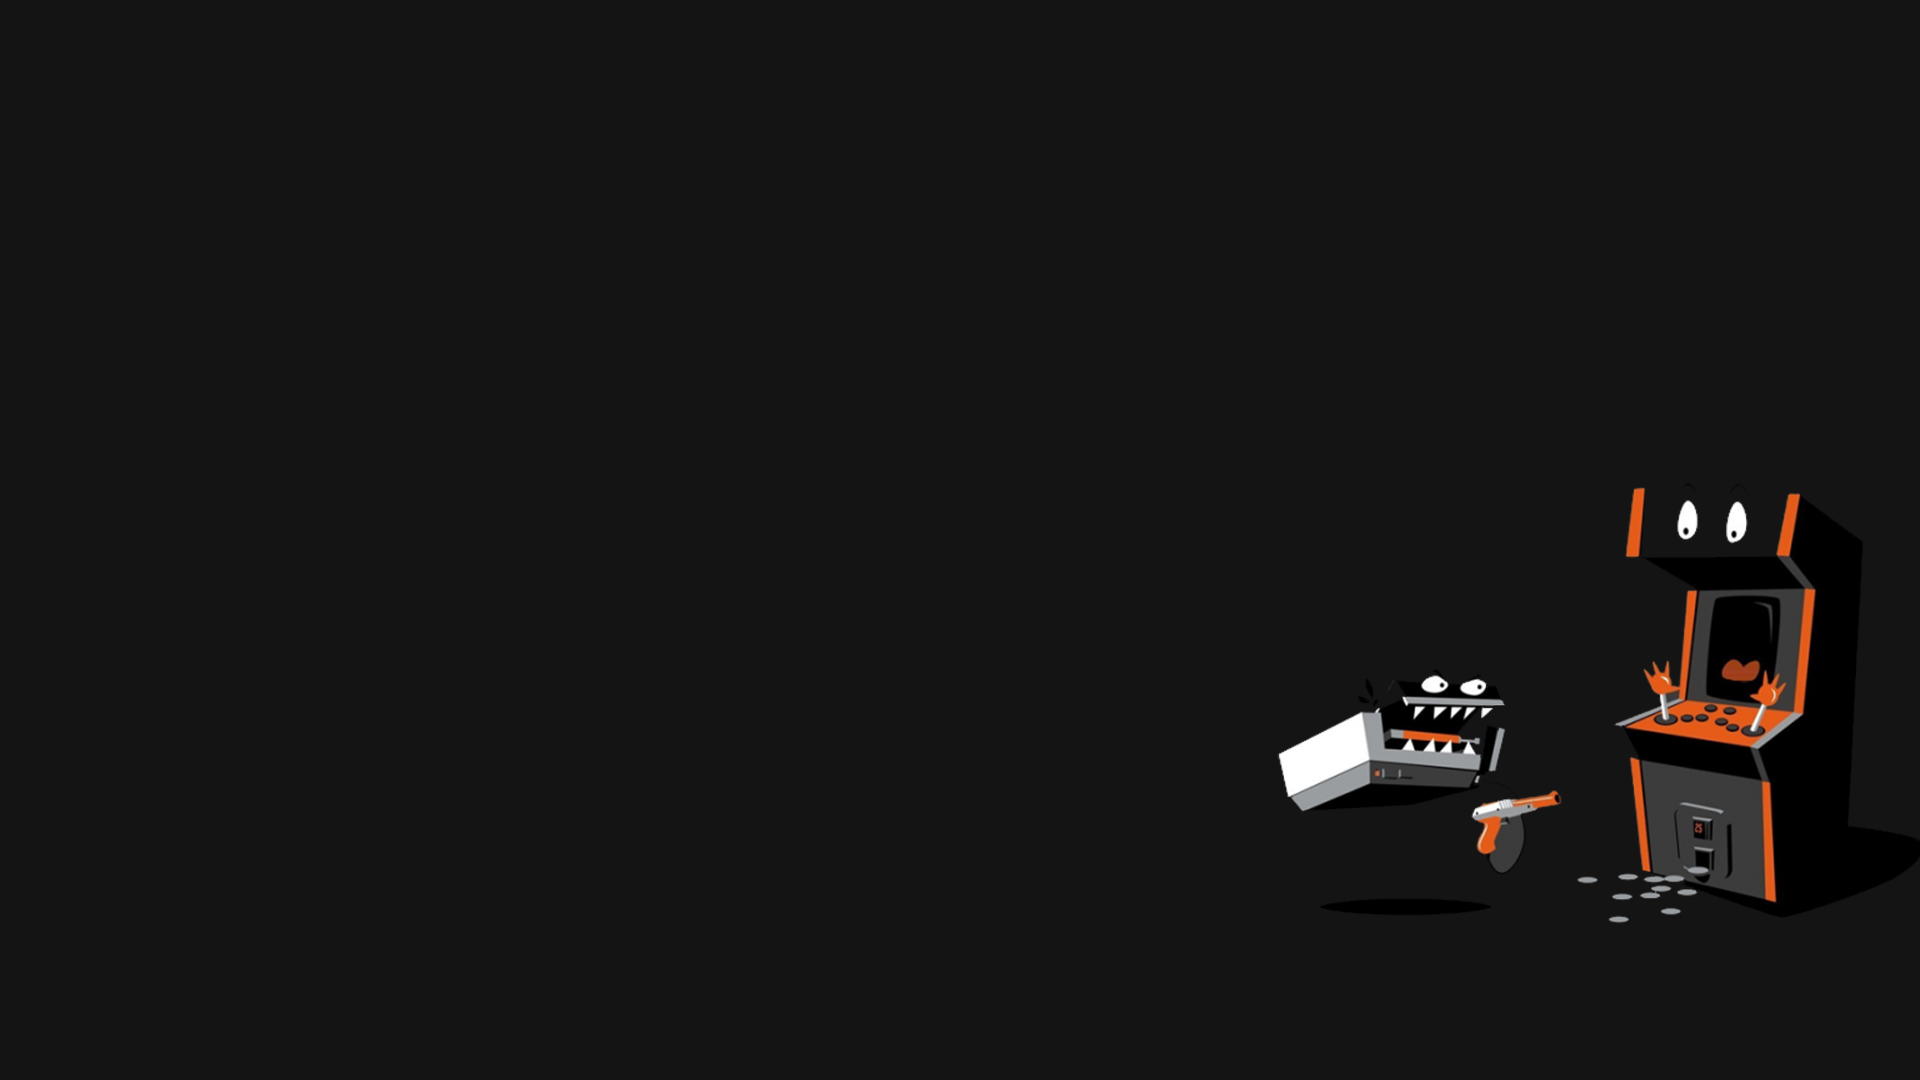
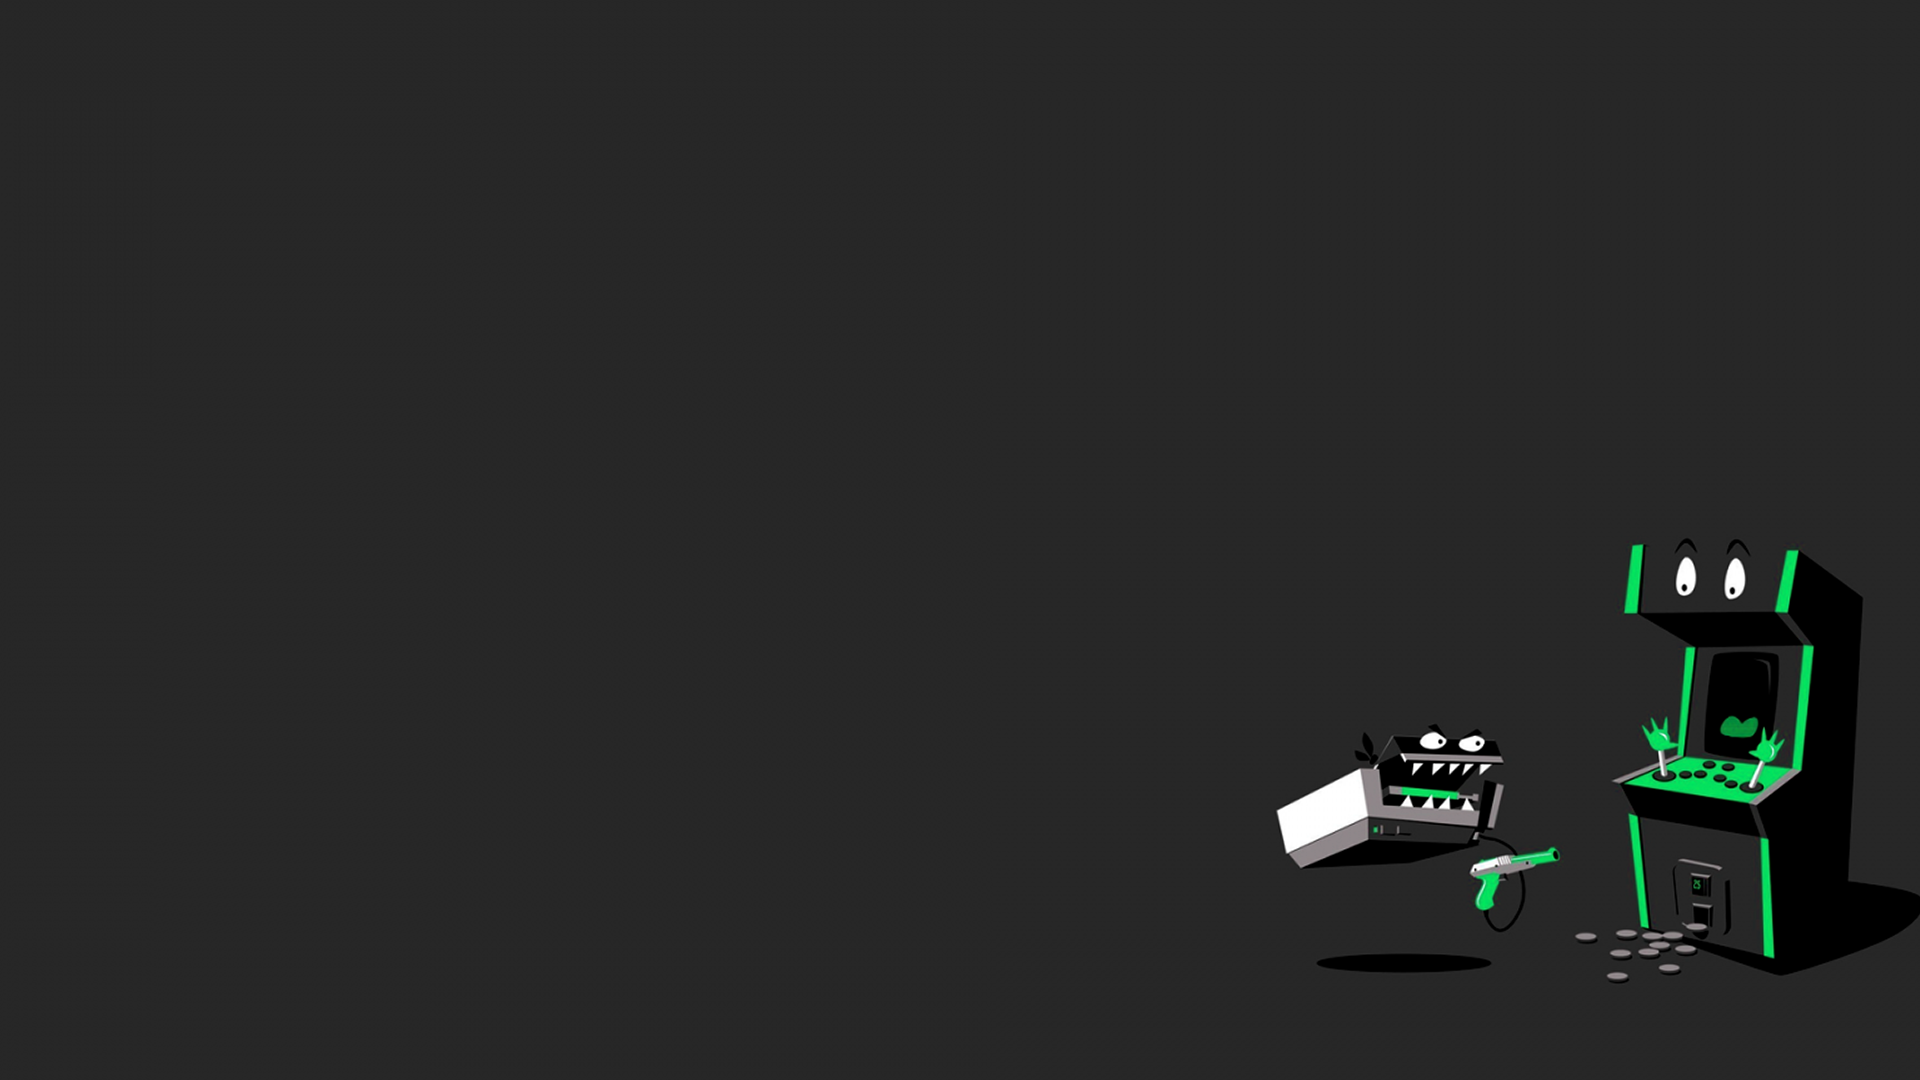
Portfolio First image updated

Changed region(s): [[0.8125, 0.4583, 1.0, 0.9167], [0.6562, 0.6111, 0.8125, 0.8556]]

diff --git a/index.html b/index.html
@@ -381,12 +381,12 @@
 
         <div class="col-lg-4 col-md-6 portfolio-item filter-app">
           <div class="portfolio-wrap">
-            <img src="assets/img/portfolio/portfolio-1.jpg" class="img-fluid" alt="">
+            <img src="assets/img/portfolio/portfolio-1.png" class="img-fluid" alt="">
             <div class="portfolio-info">
               <h4>App 1</h4>
               <p>App</p>
               <div class="portfolio-links">
-                <a href="assets/img/portfolio/portfolio-1.jpg" data-gallery="portfolioGallery" class="portfolio-lightbox" title="App 1"><i class="bx bx-plus"></i></a>
+                <a href="assets/img/portfolio/portfolio-1.png" data-gallery="portfolioGallery" class="portfolio-lightbox" title="App 1"><i class="bx bx-plus"></i></a>
                 <a href="portfolio-details.html" data-gallery="portfolioDetailsGallery" data-glightbox="type: external" class="portfolio-details-lightbox" title="Portfolio Details"><i class="bx bx-link"></i></a>
               </div>
             </div>
